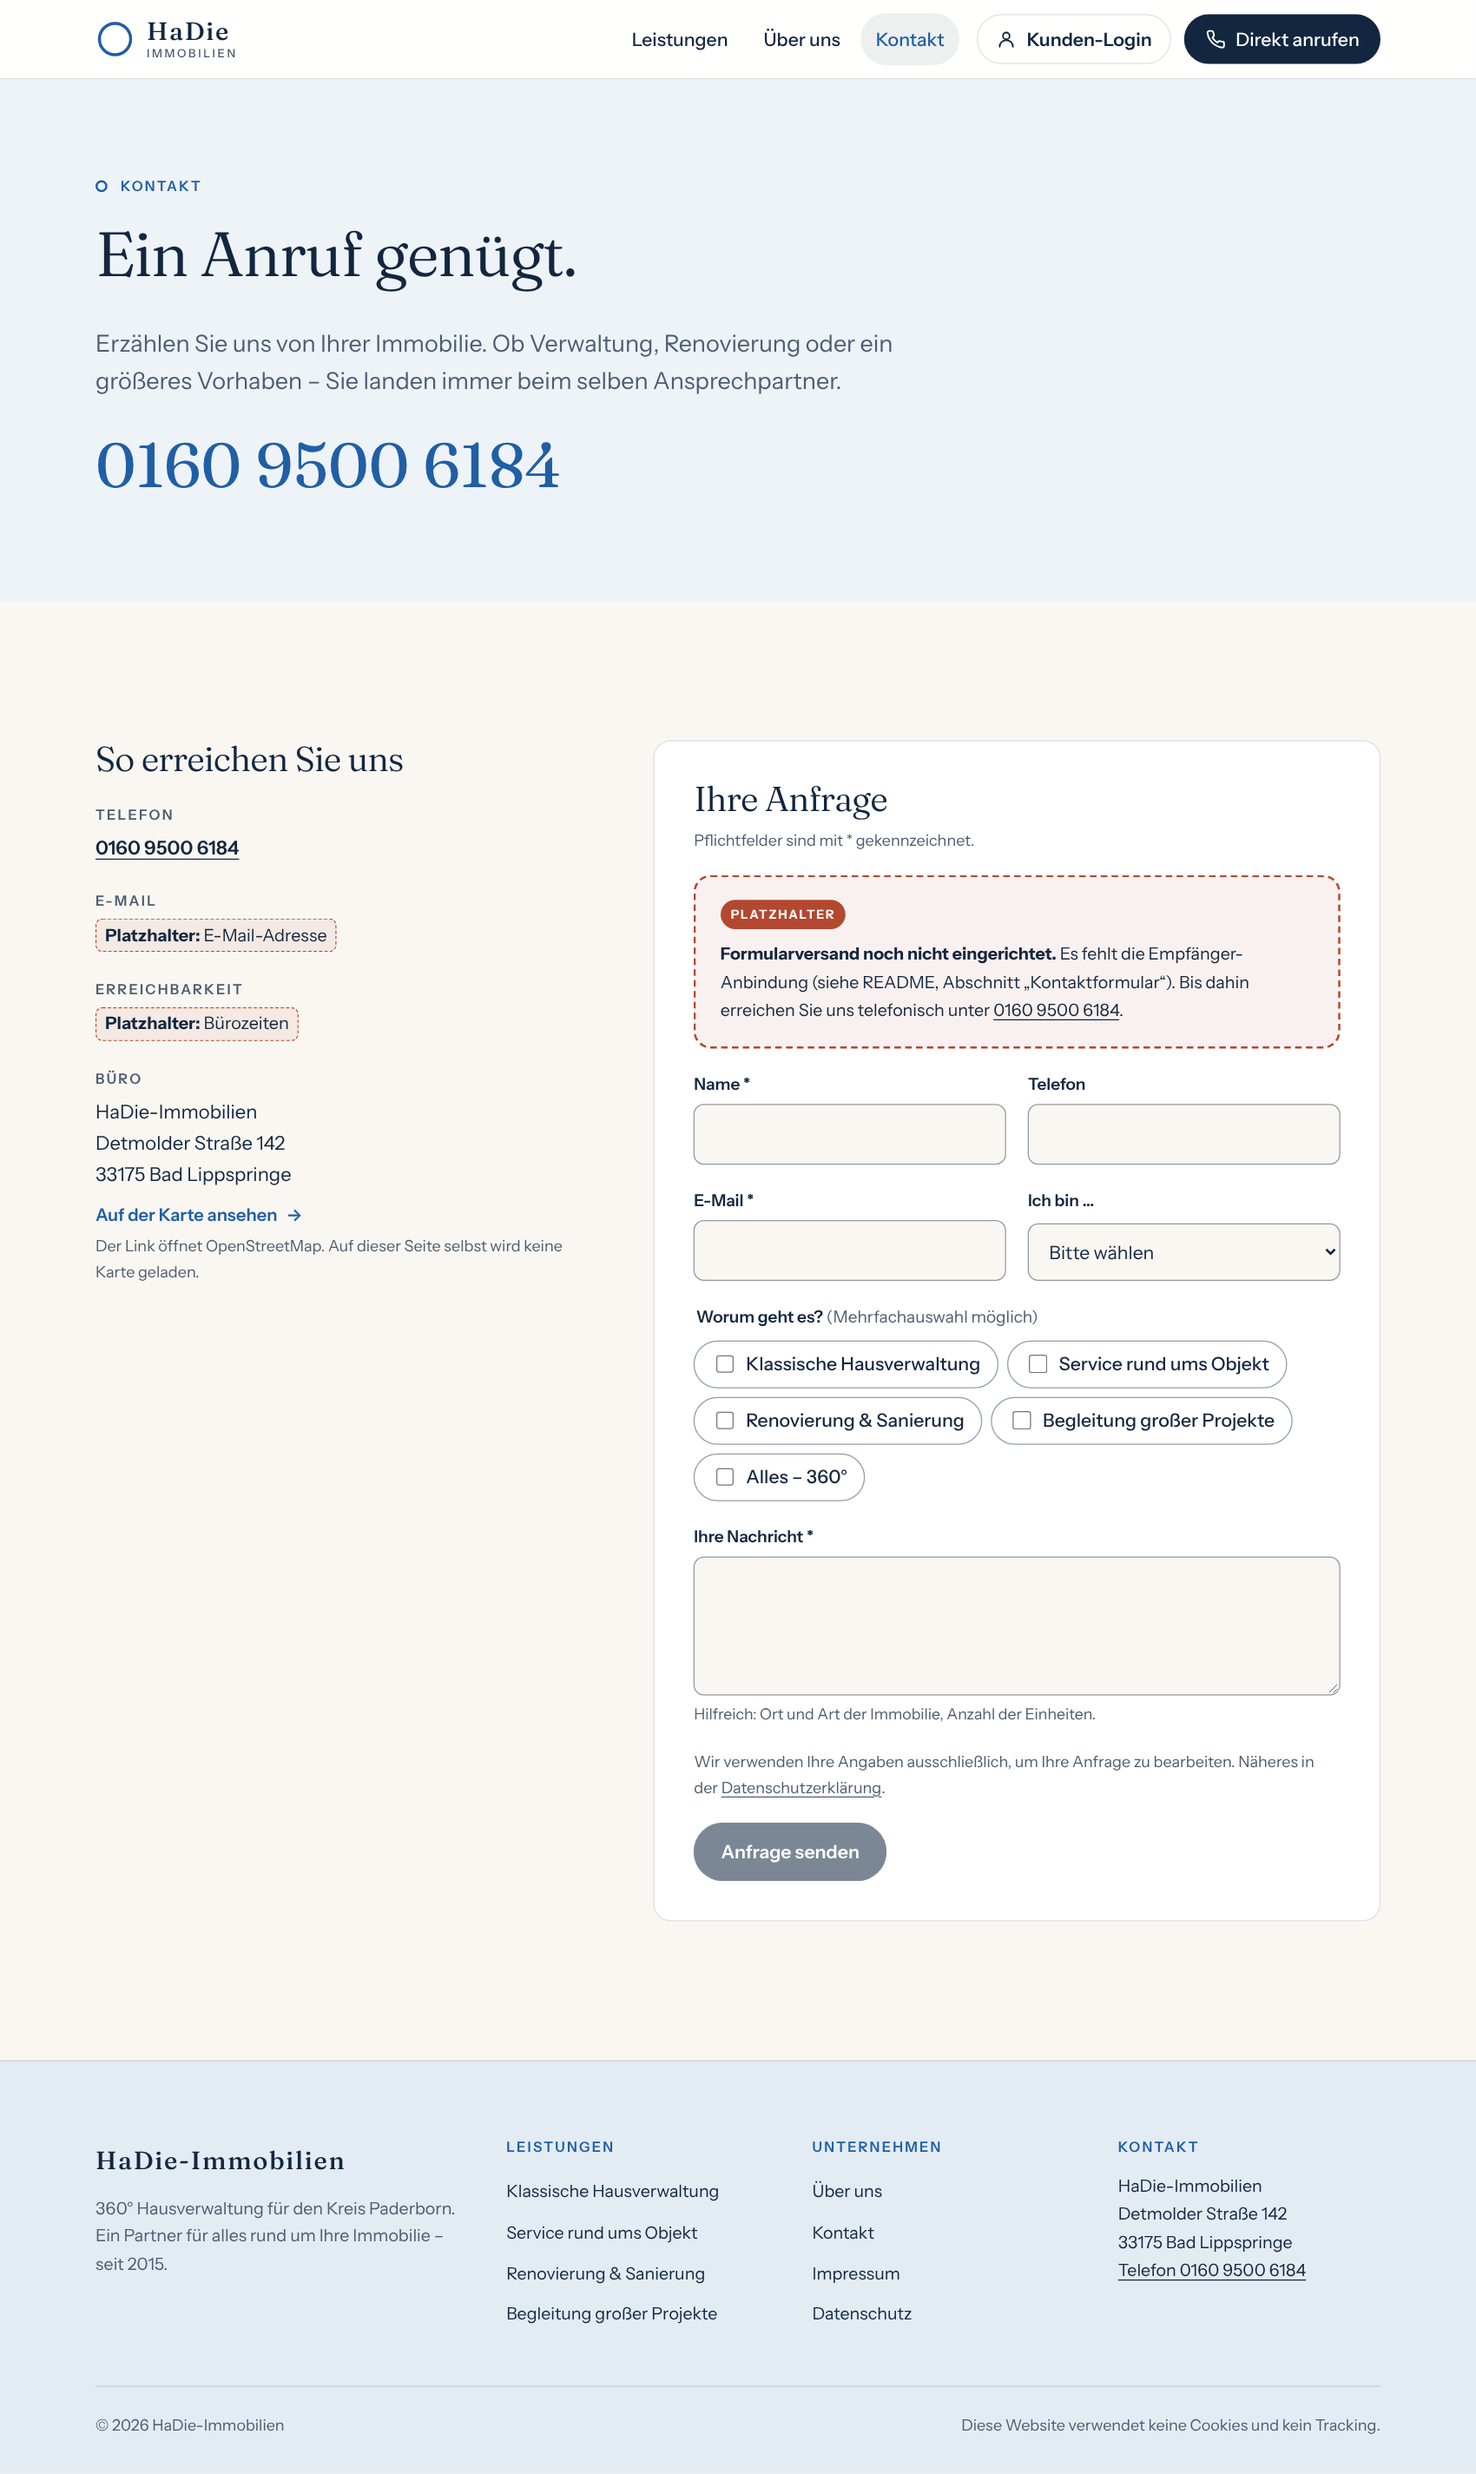
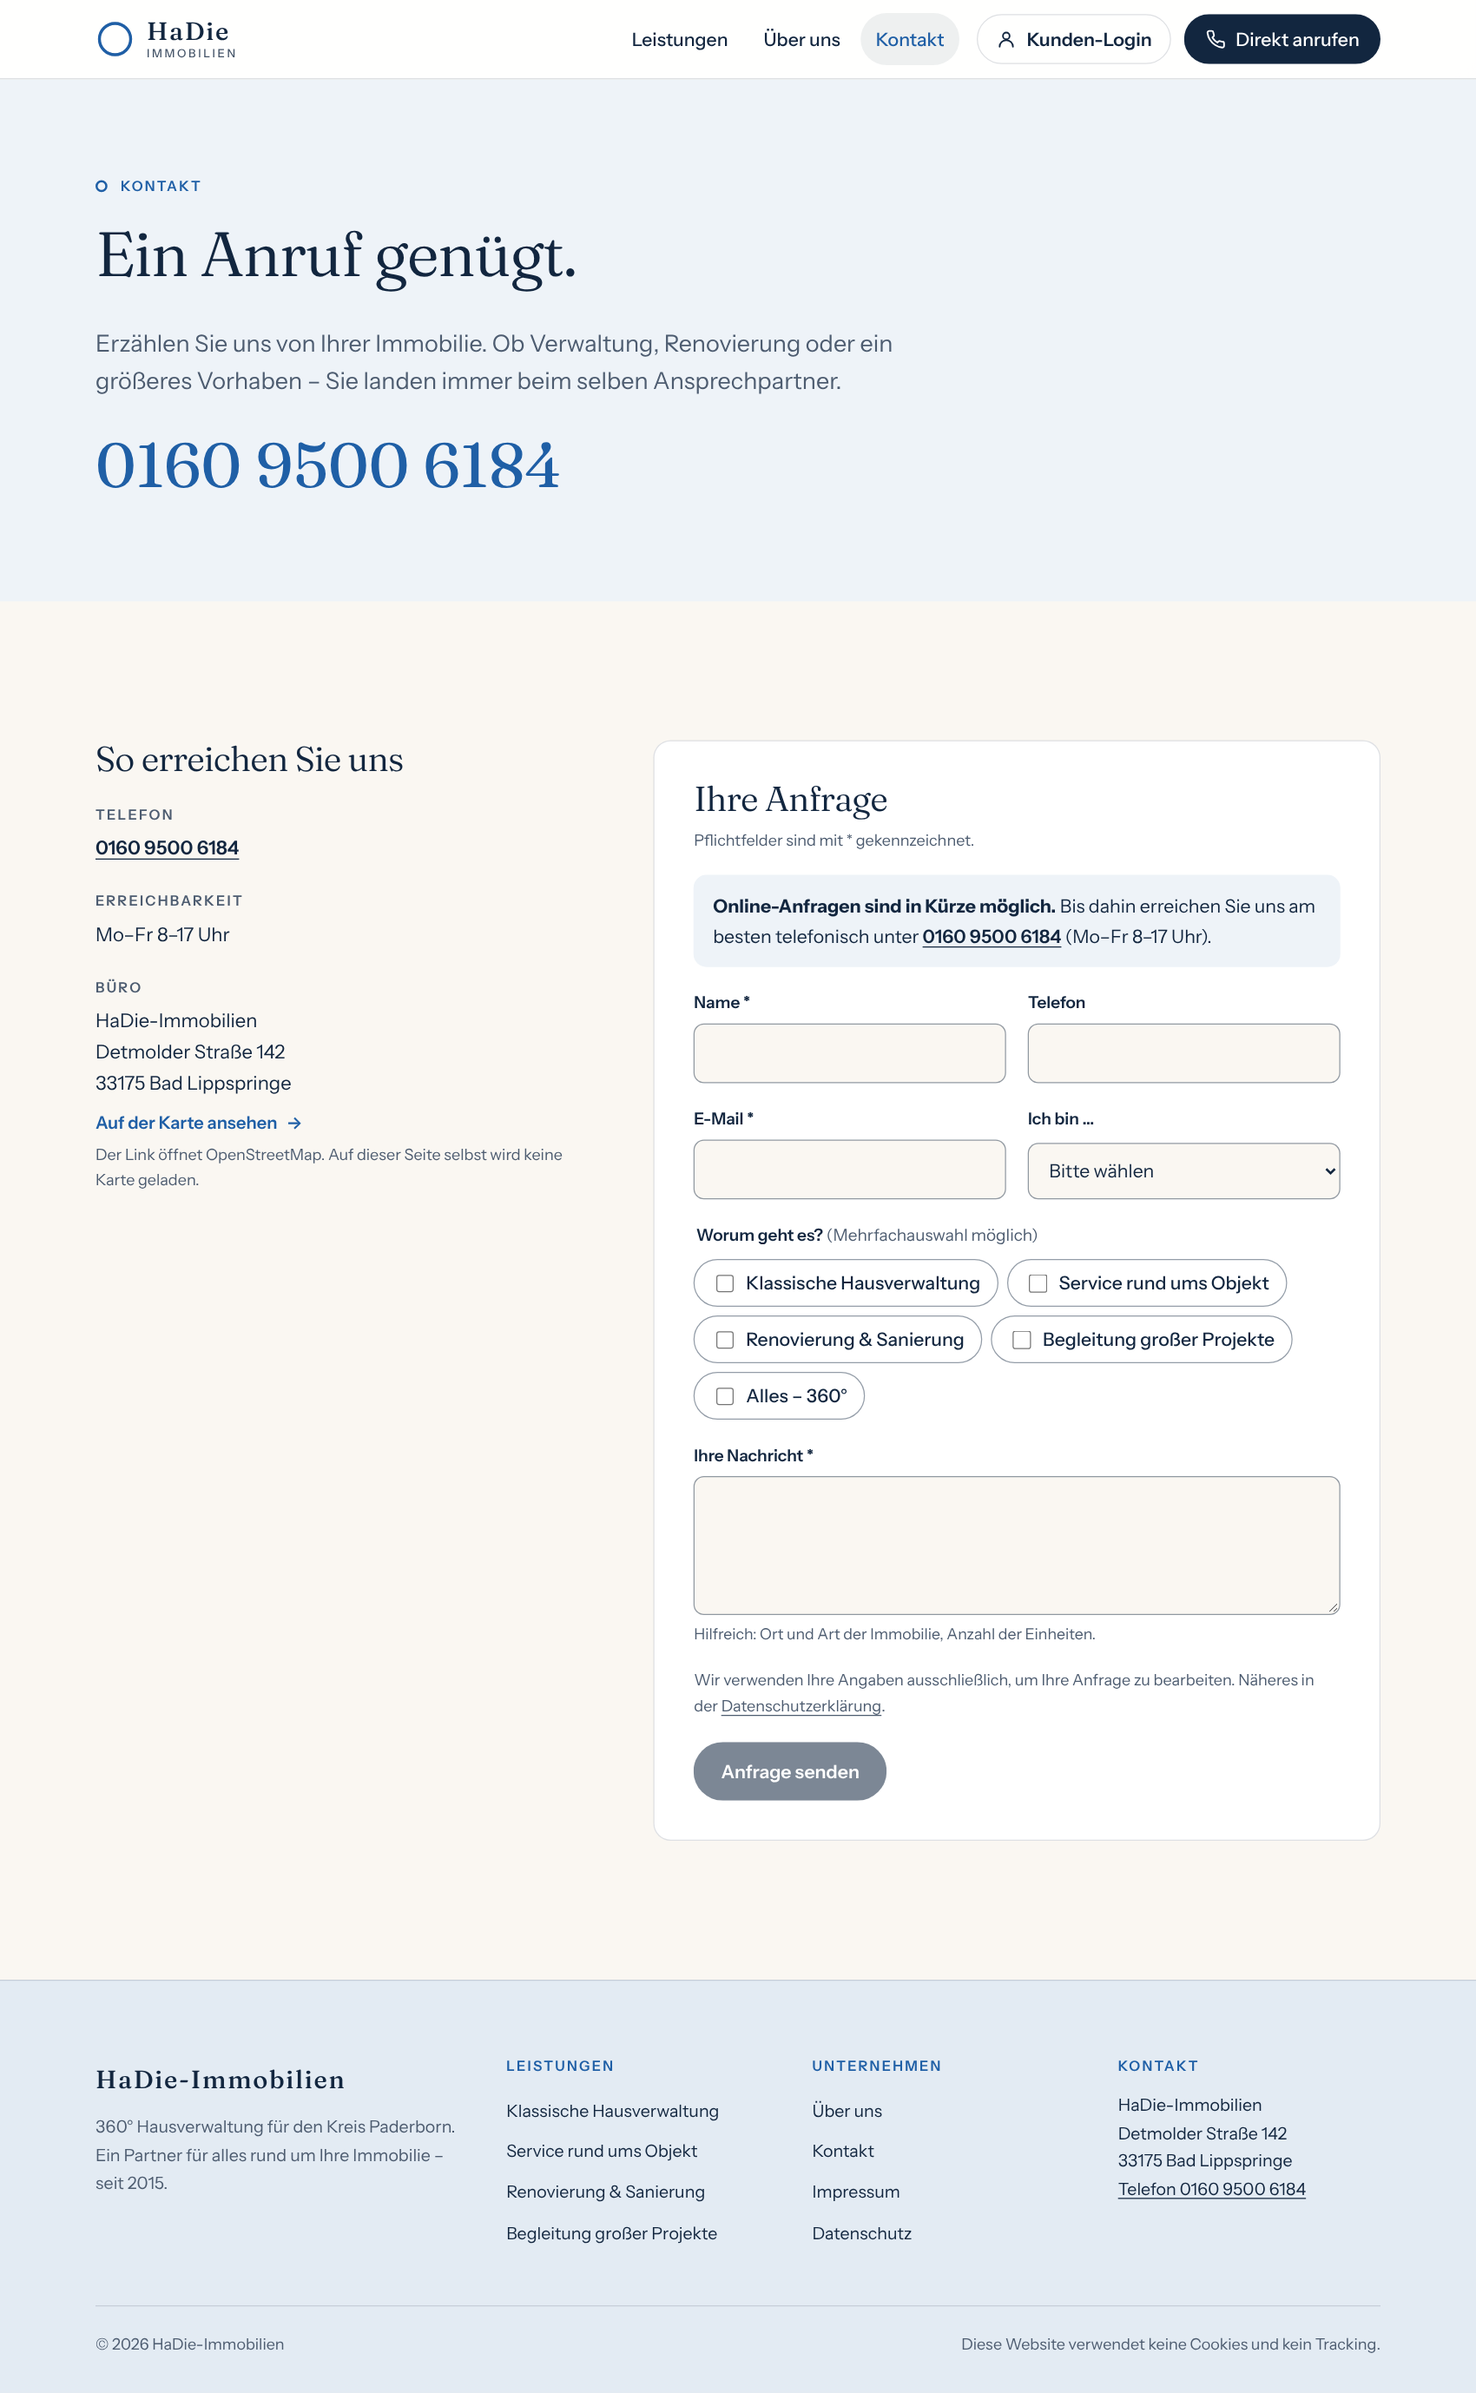
Platzhalter ausblenden und Seiten ohne Lücken darstellen
platzhalterAnzeigen steht auf false. Abschnitte, die nur aus
Platzhaltern bestanden (Impressum, Über uns, Startseite), werden
ausgeblendet statt leer zu bleiben; das Kontaktformular zeigt einen
Besucherhinweis mit Telefonnummer, solange der Versand fehlt.

Claude-Session: https://claude.ai/code/session_01Crjm5abWZQqG9TCbwr6KYL

diff --git a/src/styles/global.css b/src/styles/global.css
@@ -2260,3 +2260,14 @@ a[href^='tel:'] {
     min-width: 0;
   }
 }
+
+/* Hinweis im Kontaktformular, solange der Versand nicht angebunden ist */
+.formular__bald {
+  margin: 0;
+  padding: 0.9rem 1.1rem;
+  border-radius: 0.75rem;
+  background: var(--buehne);
+}
+.formular__bald a {
+  font-weight: 600;
+}

diff --git a/src/data/site.ts b/src/data/site.ts
@@ -55,7 +55,7 @@ export const site = {
    * Platzhalter-Hinweise (gestrichelte Kästen) ein-/ausblenden.
    * Vor dem Livegang: alle Platzhalter füllen, dann auf `false` stellen.
    */
-  platzhalterAnzeigen: true,
+  platzhalterAnzeigen: false,
 };
 
 /**
